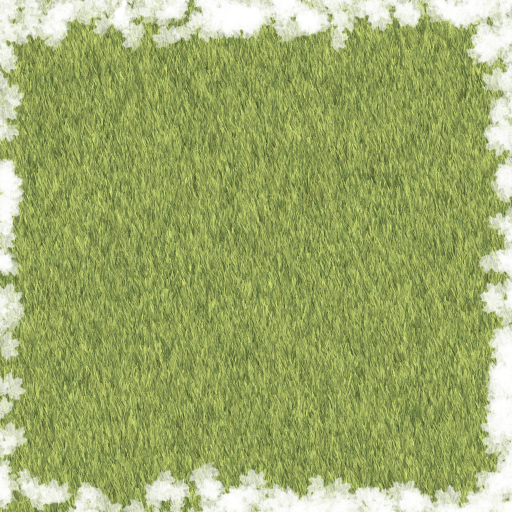
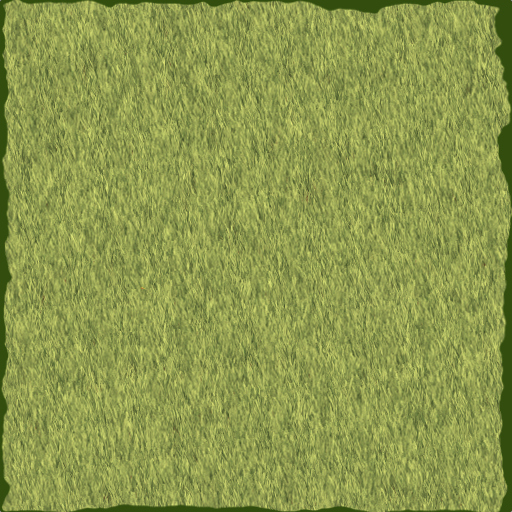
second floor design

diff --git a/static/client.js b/static/client.js
@@ -105,7 +105,7 @@ window.onload = function () {
   inputMouse();
   inputServer();
   step(new Date().getTime());
-  socket.emit("login", { id: findGetParameter("id"), pass: findGetParameter("key") });
+  login();
 };
 
 
@@ -127,7 +127,38 @@ let render = () => {
   let renderfield = () => {
     for (let y = 8; y >= 0; y--) {
       for (let x = 8; x >= 0; x--) {
-        drawField(data.field[x][y], x, y, fieldmask[x][y]);
+        drawField('back', x, y, fieldmask[x][y]);
+        // drawImgNormal('cliff', x, y, fieldmask[x][y]);
+
+      }
+    }
+    // for (let y = 8; y >= 0; y--) {
+    //   for (let x = 8; x >= 0; x--) {
+    for (let y = 0; y < 9; y++) {
+      for (let x = 0; x < 9; x++) {
+        let v = 0
+        // if (data.field[x][y] == 'ground')
+        //   v = 0.4
+        //     if (data.field[x][y] == 'team1' || data.field[x][y] == 'team2')
+        //   v = 0.2
+        // if (data.field[x][y] == 'ground') data.field[x][y] = 'water'
+
+        drawImgNormal(data.field[x][y], x, y + v, fieldmask[x][y]);
+        if (data.field[x][y] == 'ground' && data.field[x][y - 1] == 'grass')
+          drawImgNormal('cliff', x, y, fieldmask[x][y]);
+        if (data.field[x][y] == 'water' && data.field[x][y - 1] == 'grass')
+          drawImgNormal('water.grass.cliff', x, y, fieldmask[x][y]);
+        if (data.field[x][y] == 'water' && (data.field[x][y - 1] == 'team1' || data.field[x][y - 1] == 'team2'))
+          drawImgNormal('water.team.cliff', x, y, fieldmask[x][y]);
+
+        if (data.field[x][y] == 'ground' && (data.field[x][y - 1] == 'team1' || data.field[x][y - 1] == 'team2'))
+          drawImgNormal('team.cliff', x, y, fieldmask[x][y]);
+
+
+
+
+
+        // drawField(data.field[x][y], x, y + v, fieldmask[x][y]);
         // drawImg("grass", x, y);
       }
     }
@@ -139,7 +170,19 @@ let render = () => {
       for (let x = 0; x < 9; x++) {
         let u = data.unit.filter(u => u.x == x && u.y == y)[0];
         if (u) {
-          drawProp(u.img, u.x, u.y, u.m, u.color, u.isReady, u.isActive);
+          // let v = -0.15
+          if (data.field[x][y] == 'ground')
+            drawProp(u.img, u.x, u.y - 0.1, u.m, u.color, u.isReady, u.isActive);
+          else
+            if (data.field[x][y] == 'water') {
+
+              drawProp(u.img, u.x, u.y - 0.1, u.m, u.color, u.isReady, u.isActive);
+              drawImgNormal('drawn', x, y, fieldmask[x][y]);
+
+            }
+
+            else
+              drawProp(u.img, u.x, u.y - 0.18, u.m, u.color, u.isReady, u.isActive, 15);
           drawLife(u.life, u.x, u.y);
           if (u.status)
             drawStatus(u.status, u.x, u.y, u.m, u.color, u.isReady, u.isActive);
@@ -454,4 +497,8 @@ let endturn = () => {
     socket.emit("endturn");
   blocked = true;
 
+}
+
+let login = () => {
+  socket.emit("login", { id: findGetParameter("id"), pass: findGetParameter("key") });
 }

diff --git a/static/draw.js b/static/draw.js
@@ -41,7 +41,7 @@ function drawBoard() {
 
   for (x = shiftX; x <= canvas.width; x += dh) {
     for (y = shiftY; y <= canvas.height; y += dh) {
-      ctx.strokeStyle = 'rgba(0,0,0,0.1)';
+      ctx.strokeStyle = 'rgba(200,200,200,0.1)';
       // ctx.fillStyle = 'rgba(0,0,0,0.1)';
       ctx.globalAlpha = 0.2;
       ctx.moveTo(x, 0);
@@ -247,7 +247,7 @@ function drawField(name, x, y, mask) {
   // } else if (name == 'team2') {
   //   drawProp('team', x, y, false, '2', true, false);
   // }else{
-  let p = dh / 10;
+  let p = dh / 15;
   let img = getImg(name, x, y, mask[0]);
   let h = dh + 2 * p;
   let w = img.width * (h / img.height);
@@ -292,7 +292,7 @@ function drawLife(quantity, x, y) {
   // ctx.drawImage(img, x * dh  + shiftX, y * dh, dh/8 + 2 * p, dh/8 + 2 * p);
 }
 
-function drawProp(name, x, y, m, team, isReady, isActive) {
+function drawProp(name, x, y, m, team, isReady, isActive, size) {
   let color = false;
   if (!data.chooseteam && data.bonus == 'ready') {
     if (team == 2 && isReady) color = 'rgba(255,0,0,1)';
@@ -306,14 +306,18 @@ function drawProp(name, x, y, m, team, isReady, isActive) {
   }
   if (isActive && team == 1) color = 'rgba(0,255,0,1)';
   if (team == 3) color = 'rgba(255, 255, 0,1)';
-  let p = dh / 10;
+  let p = 0
+  if (size)
+    p= dh / size;
   let img = getImg(name, x, y);
   let h = dh + 2 * p;
   let w = img.width * (h / img.height);
 
   if (m) {
     let df = () => {
+      // ctx.drawImage(img, 0, 0, img.width, img.height *0.75 ,(x * dh - p + shiftX) * -1 - w, y * dh - p + shiftY, w, h*0.75);
       ctx.drawImage(img, (x * dh - p + shiftX) * -1 - w, y * dh - p + shiftY, w, h);
+
     }
     ctx.save();
     ctx.scale(-1, 1);
@@ -360,7 +364,7 @@ function drawSize(name, x, y, w, h) {
   if (img === undefined || img === null) {
     img = questionmark;
   }
-  // console.log(img);
+  // ctx.drawImage(img, 0, 0, img.width, img.height/2 ,x * dh + shiftX, y * dh + shiftY, dh*2 , dh );
   ctx.drawImage(img, x * dh + shiftX, y * dh + shiftY, dh * w, dh * h);
 }
 

diff --git a/static/input.js b/static/input.js
@@ -4,6 +4,11 @@ function inputServer() {
         console.log('connected');
         //   socket.emit('login', login);
     });
+    socket.on('disconnect', function () {
+        // alert('disconnected');
+        tip('Разорвано соединение с сервером...', 3, 3, '#F00', 5, '2vmax verdana');
+        render()
+    });
     socket.on('update', function (val) {
         onUpdate(val);
     });

diff --git a/static/mouse.js b/static/mouse.js
@@ -22,6 +22,13 @@ function getTouchPos(canvas, evt) {
 let taptime;
 let right = false;
 function inputMouse() {
+
+  window.addEventListener('focus', () => {
+    // console.log('hi!');
+    login();
+  });
+
+
   document.oncontextmenu = function (e) {
     return false;
   }
